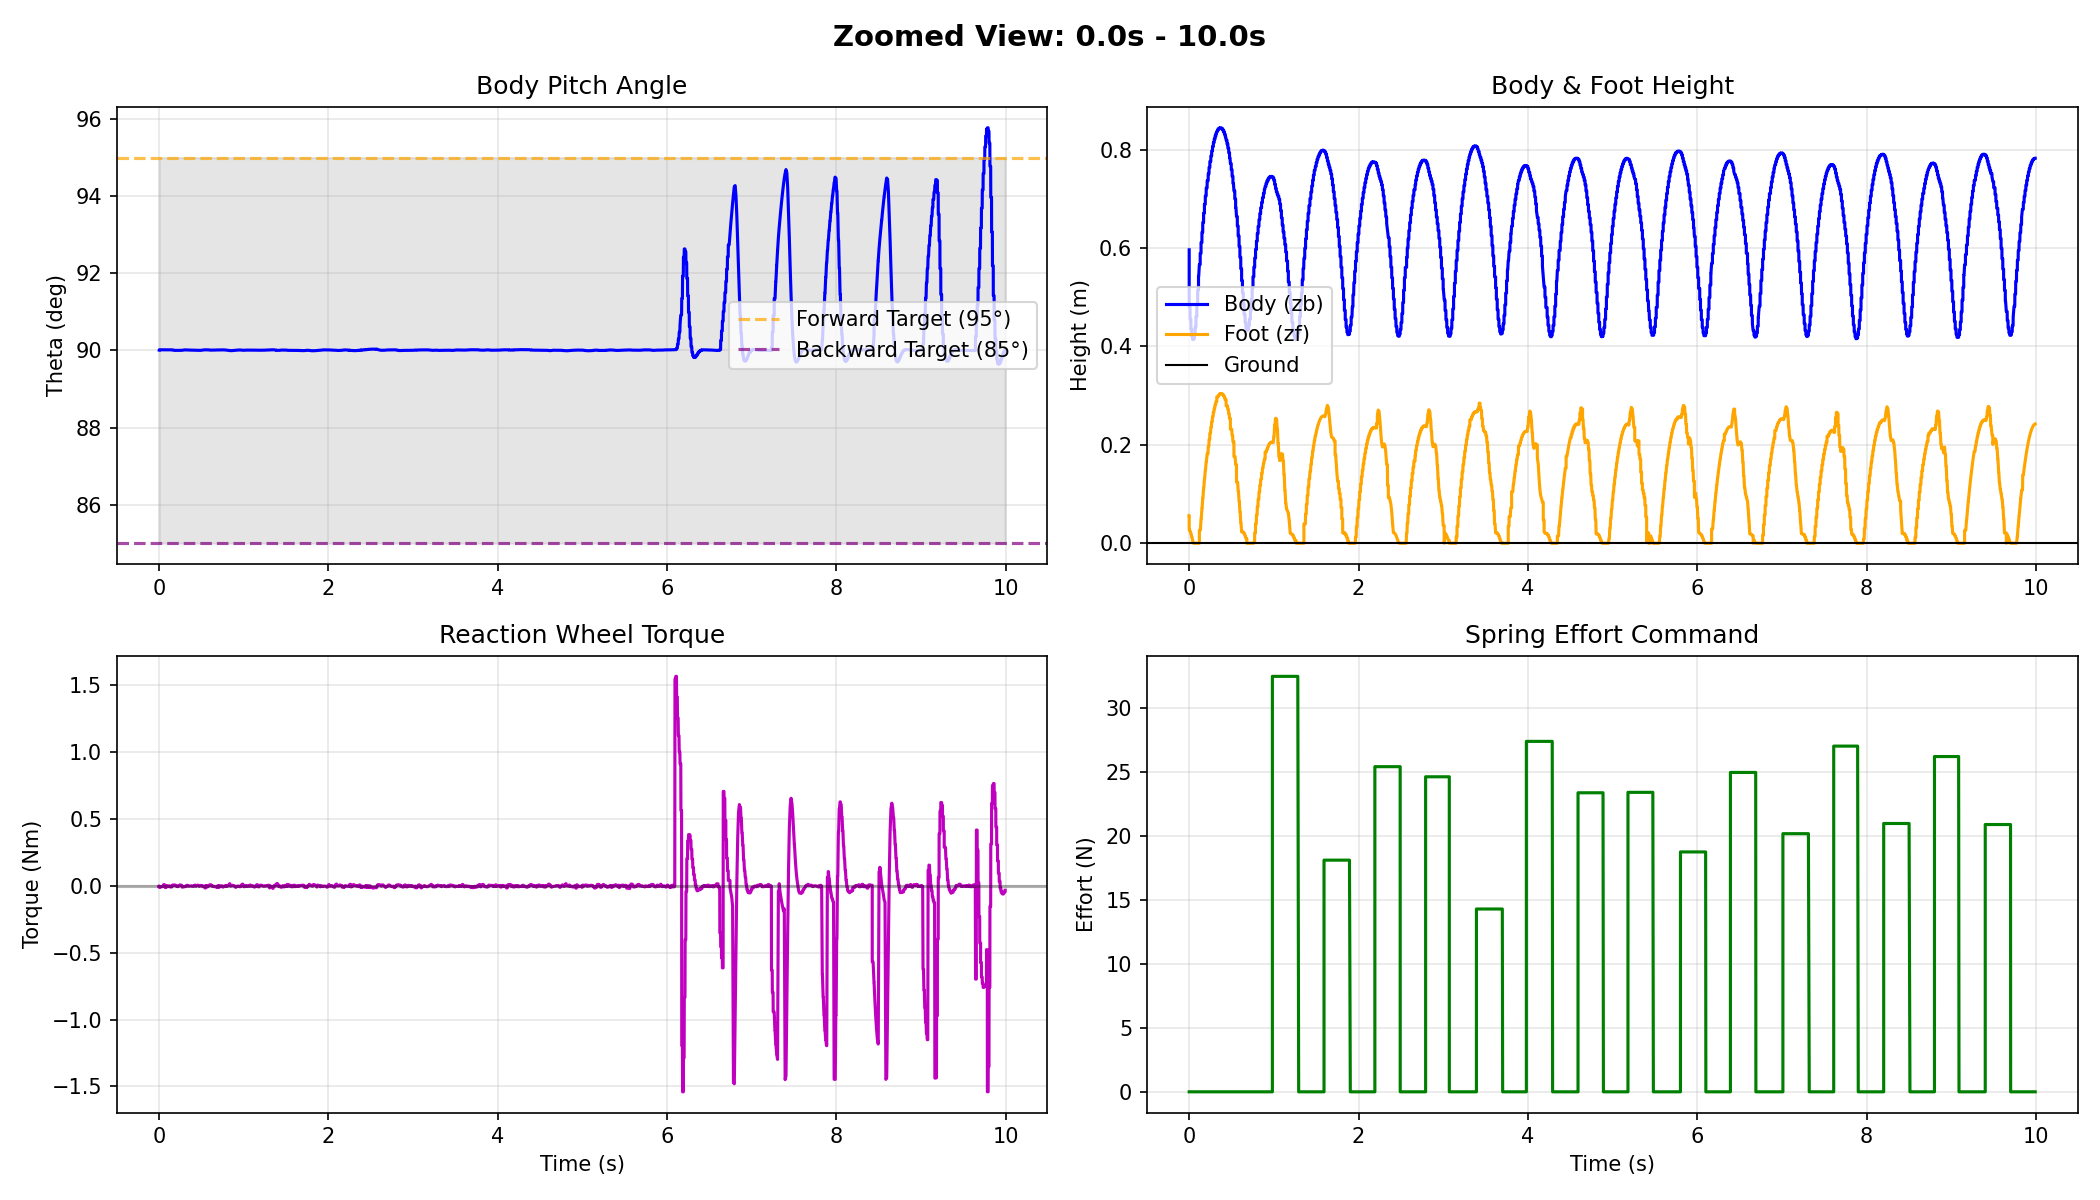
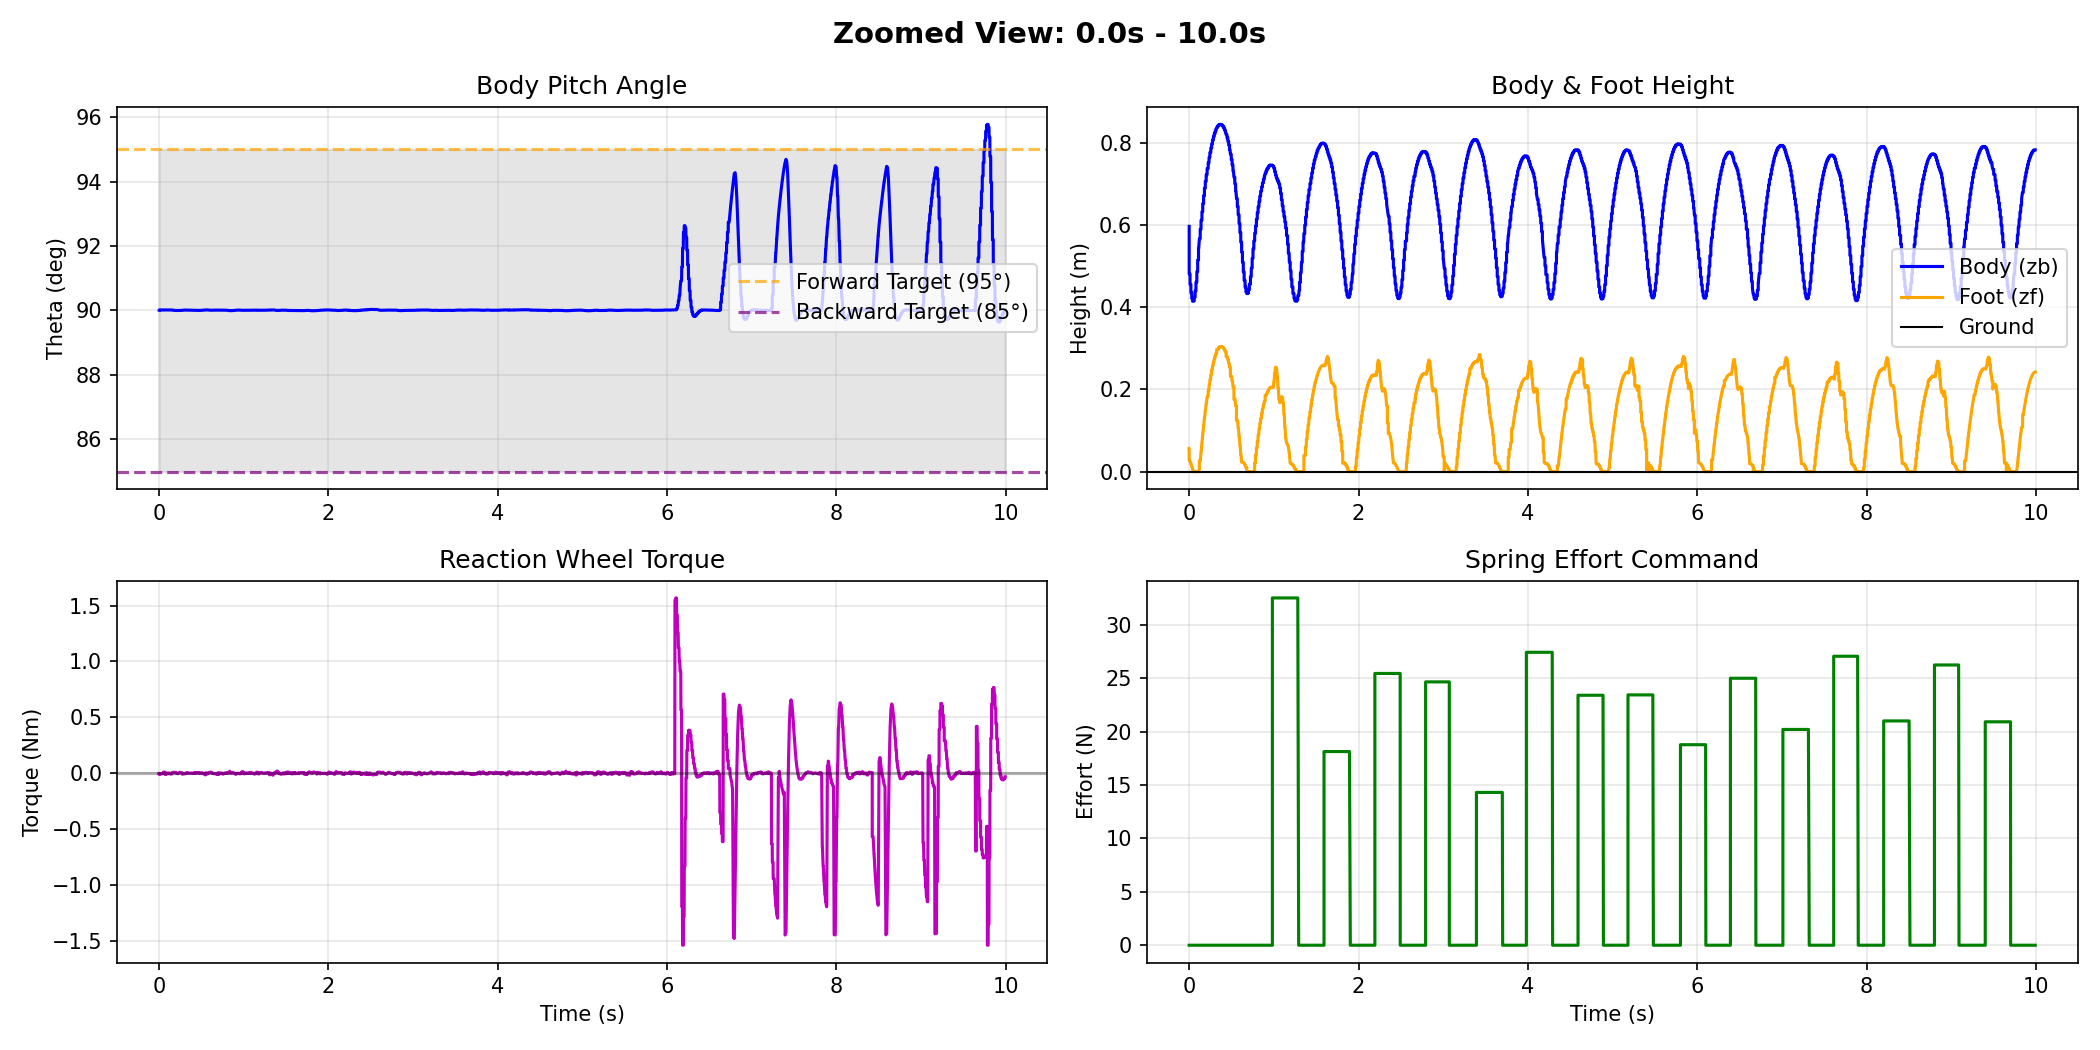
update

diff --git a/src/monoped_controller/scripts/bag_analyzer_2d.py b/src/monoped_controller/scripts/bag_analyzer_2d.py
@@ -64,29 +64,7 @@ def extract_debug_state(bag_path: str) -> dict:
     }
 
 
-def compute_zb_dot(zb: np.ndarray, t: np.ndarray) -> np.ndarray:
-    """Compute velocity from position using finite differences."""
-    zb_dot = np.gradient(zb, t)
-    return zb_dot
-
-
-def find_apex_heights(zb: np.ndarray, zb_dot: np.ndarray, t: np.ndarray,
-                      threshold: float = 0.05) -> tuple:
-    """
-    Find apex heights where velocity crosses zero from positive to negative.
-    """
-    apex_heights = []
-    apex_times = []
-
-    for i in range(1, len(zb_dot)):
-        if zb_dot[i-1] > threshold and zb_dot[i] <= threshold:
-            apex_heights.append(zb[i])
-            apex_times.append(t[i])
-
-    return np.array(apex_heights), np.array(apex_times)
-
-
-def print_statistics(data: dict, apex_heights: np.ndarray):
+def print_statistics(data: dict):
     """Print data statistics to console."""
     print(f"\n{'='*60}")
     print("📊 DATA STATISTICS")
@@ -108,19 +86,6 @@ def print_statistics(data: dict, apex_heights: np.ndarray):
     print(f"\n⚡ EFFORT:")
     print(f"  Spring effort: {np.nanmin(data['effort']):.2f} - {np.nanmax(data['effort']):.2f} N")
     
-    print(f"\n{'='*60}")
-    print("🦘 HOPPING ANALYSIS")
-    print(f"{'='*60}")
-    print(f"Number of hops detected: {len(apex_heights)}")
-    if len(apex_heights) > 0:
-        print(f"Mean apex height: {np.mean(apex_heights):.3f} m")
-        print(f"Std apex height:  {np.std(apex_heights):.3f} m")
-        print(f"Min apex height:  {np.min(apex_heights):.3f} m")
-        print(f"Max apex height:  {np.max(apex_heights):.3f} m")
-        if len(apex_heights) >= 5:
-            print(f"First 5 apex heights: {[f'{h:.3f}' for h in apex_heights[:5]]}")
-            print(f"Last 5 apex heights:  {[f'{h:.3f}' for h in apex_heights[-5:]]}")
-    
     # Diagnosis
     print(f"\n{'='*60}")
     print("🔍 DIAGNOSIS")
@@ -133,27 +98,19 @@ def print_statistics(data: dict, apex_heights: np.ndarray):
         print(f"  ⚠  TILTED. Final theta = {final_theta:.2f}°")
     else:
         print(f"  ❌ FELL! Final theta = {final_theta:.2f}°")
-    
-    if len(apex_heights) > 5:
-        print(f"  ✅ HOPPING! {len(apex_heights)} hops detected")
-    elif len(apex_heights) > 0:
-        print(f"  ⚠  Few hops: {len(apex_heights)} hops detected")
-    else:
-        print(f"  ❌ NO HOPPING detected")
 
 
-def plot_hopping_analysis(data: dict, apex_heights: np.ndarray, apex_times: np.ndarray,
-                          output_path: str, time_window: float = 30.0):
+def plot_hopping_analysis(data: dict, output_path: str, time_window: float = 30.0):
     """
-    Generate hopping analysis plot with 6 subplots.
+    Generate hopping analysis plot with 4 subplots.
     """
     t = data['t']
     if time_window is None:
         time_window = t[-1]
     mask = t <= time_window
 
-    fig, axes = plt.subplots(3, 2, figsize=(14, 10))
-    fig.suptitle(f'2D Monoped Hopping Analysis (First {time_window:.0f} seconds)', fontsize=14, fontweight='bold')
+    fig, axes = plt.subplots(2, 2, figsize=(14, 7))
+    fig.suptitle(f'2D Monoped Analysis (First {time_window:.0f} seconds)', fontsize=14, fontweight='bold')
 
     # Plot 1: Theta (pitch angle)
     ax = axes[0, 0]
@@ -180,41 +137,17 @@ def plot_hopping_analysis(data: dict, apex_heights: np.ndarray, apex_times: np.n
     ax = axes[1, 0]
     ax.plot(t[mask], data['torque'][mask], 'm-', linewidth=0.5)
     ax.axhline(y=0, color='k', linestyle='-', alpha=0.3)
+    ax.set_xlabel('Time (s)')
     ax.set_ylabel('Torque (Nm)')
     ax.set_title('Reaction Wheel Torque')
     ax.grid(True, alpha=0.3)
 
-    # Plot 4: Apex heights convergence
+    # Plot 4: Effort
     ax = axes[1, 1]
-    if len(apex_heights) > 0:
-        ax.plot(range(len(apex_heights)), apex_heights, 'bo-', markersize=4, linewidth=1)
-        ax.axhline(y=np.mean(apex_heights), color='r', linestyle='--', 
-                   label=f'Mean={np.mean(apex_heights):.3f}m')
-        ax.set_xlabel('Hop number')
-        ax.set_ylabel('Apex height (m)')
-        ax.legend(loc='upper right')
-    else:
-        ax.text(0.5, 0.5, 'No hops detected', ha='center', va='center', transform=ax.transAxes)
-    ax.set_title('Apex Height per Hop')
-    ax.grid(True, alpha=0.3)
-
-    # Plot 5: Effort
-    ax = axes[2, 0]
     ax.plot(t[mask], data['effort'][mask], 'g-', linewidth=0.5)
     ax.set_xlabel('Time (s)')
     ax.set_ylabel('Effort (N)')
     ax.set_title('Spring Effort Command')
-    ax.grid(True, alpha=0.3)
-
-    # Plot 6: Phase plot (theta vs theta_dot)
-    ax = axes[2, 1]
-    colors = plt.cm.viridis(np.linspace(0, 1, np.sum(mask)))
-    ax.scatter(data['theta'][mask], data['theta_dot'][mask], c=colors, s=1, alpha=0.5)
-    ax.axvline(x=90, color='g', linestyle='--', linewidth=2, alpha=0.7)
-    ax.axhline(y=0, color='k', linestyle='-', alpha=0.3)
-    ax.set_xlabel('Theta (deg)')
-    ax.set_ylabel('Theta_dot (deg/s)')
-    ax.set_title('Phase Plot (color = time)')
     ax.grid(True, alpha=0.3)
 
     plt.tight_layout()
@@ -230,7 +163,7 @@ def plot_zoomed(data: dict, output_path: str, time_start: float = 0, time_end: f
     t = data['t']
     mask = (t >= time_start) & (t <= time_end)
 
-    fig, axes = plt.subplots(2, 2, figsize=(14, 8))
+    fig, axes = plt.subplots(2, 2, figsize=(14, 7))
     fig.suptitle(f'Zoomed View: {time_start:.1f}s - {time_end:.1f}s', fontsize=14, fontweight='bold')
 
     # Theta zoomed
@@ -303,20 +236,14 @@ def main():
     data = extract_debug_state(bag_path)
     print(f"   Found {len(data['t'])} samples over {data['t'][-1]:.2f} seconds")
 
-    # Compute velocity from position
-    zb_dot = compute_zb_dot(data['zb'], data['t'])
-
-    # Find apex heights
-    apex_heights, apex_times = find_apex_heights(data['zb'], zb_dot, data['t'])
-
     # Print statistics
-    print_statistics(data, apex_heights)
+    print_statistics(data)
 
     # Generate plots
     print(f"\n📊 Generating plots...")
     
     plot_hopping_analysis(
-        data, apex_heights, apex_times,
+        data,
         os.path.join(output_dir, 'hopping_analysis.png'),
         time_window=30.0  # First 30 seconds
     )
